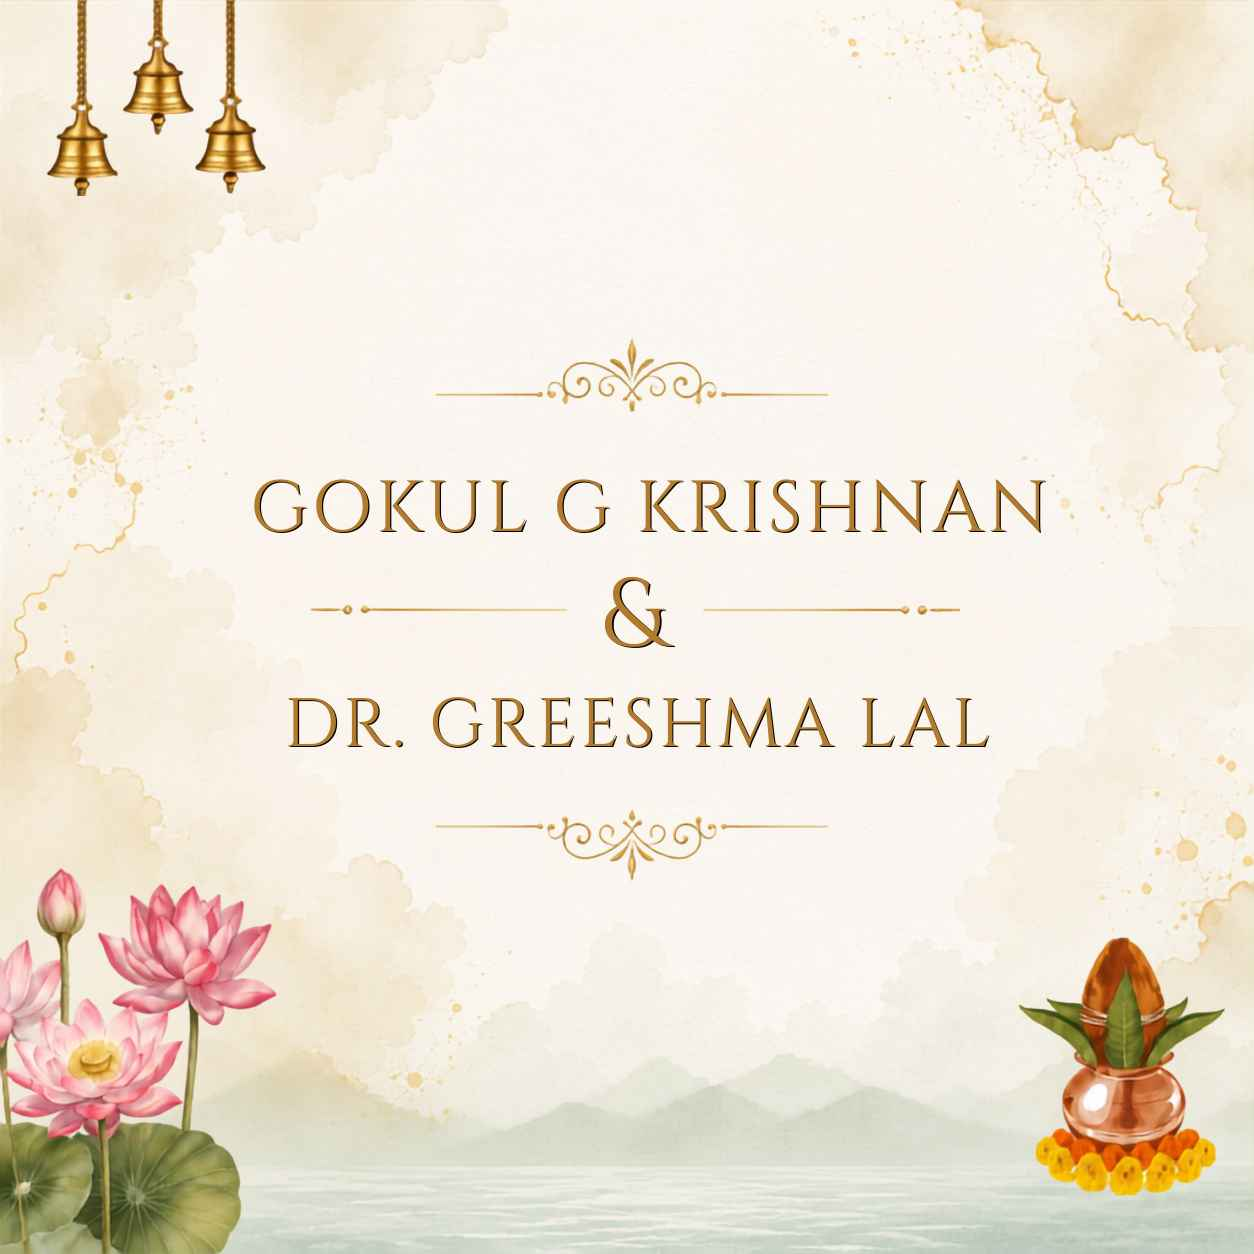
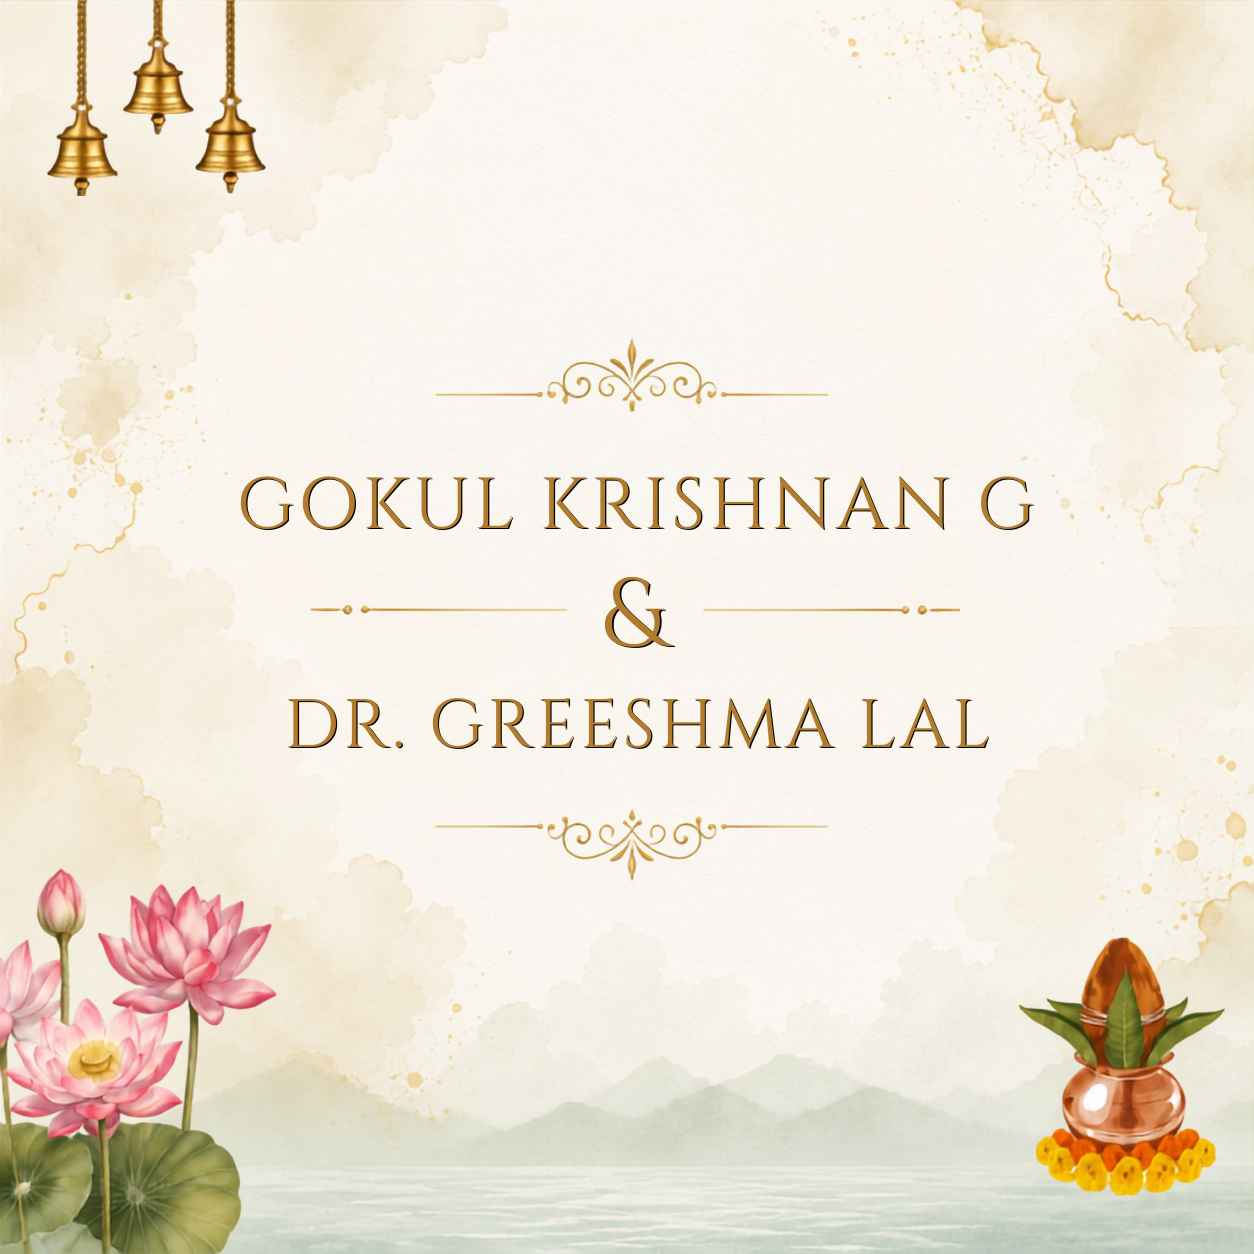
first commit

diff --git a/index.html b/index.html
@@ -5,22 +5,22 @@
 <meta name="viewport" content="width=device-width, initial-scale=1.0, viewport-fit=cover">
 <meta name="theme-color" content="#173F32">
 <meta name="apple-mobile-web-app-status-bar-style" content="black-translucent">
-<title>Gokul G Krishnan &amp; Greeshma Lal | Wedding Invitation</title>
-<meta name="description" content="Join us in celebrating the wedding of Gokul G Krishnan &amp; Greeshma Lal — Sangeeth Night on 24 October, followed by the wedding on 25 October in Guruvayur.">
+<title>Gokul Krishnan G &amp; Greeshma Lal | Wedding Invitation</title>
+<meta name="description" content="Join us in celebrating the wedding of Gokul Krishnan G &amp; Greeshma Lal — Sangeeth Night on 24 October, followed by the wedding on 25 October in Guruvayur.">
 <link rel="canonical" href="https://gokul-greshma.vercel.app/">
 
 <!-- Open Graph -->
 <meta property="og:type" content="website">
 <meta property="og:url" content="https://gokul-greshma.vercel.app/">
-<meta property="og:title" content="Gokul G Krishnan &amp; Greeshma Lal | Wedding Invitation">
-<meta property="og:description" content="Join us in celebrating the wedding of Gokul G Krishnan &amp; Greeshma Lal — Sangeeth Night on 24 October, followed by the wedding on 25 October in Guruvayur.">
+<meta property="og:title" content="Gokul Krishnan G &amp; Greeshma Lal | Wedding Invitation">
+<meta property="og:description" content="Join us in celebrating the wedding of Gokul Krishnan G &amp; Greeshma Lal — Sangeeth Night on 24 October, followed by the wedding on 25 October in Guruvayur.">
 <meta property="og:image" content="https://gokul-greshma.vercel.app/assets/og-image.jpg">
 <meta property="og:image:width" content="1200">
 <meta property="og:image:height" content="630">
 
 <!-- WhatsApp / Twitter card -->
 <meta name="twitter:card" content="summary_large_image">
-<meta name="twitter:title" content="Gokul G Krishnan &amp; Greeshma Lal | Wedding Invitation">
+<meta name="twitter:title" content="Gokul Krishnan G &amp; Greeshma Lal | Wedding Invitation">
 <meta name="twitter:description" content="25 October 2026 · Sree Krishna Temple, Guruvayur">
 <meta name="twitter:image" content="https://gokul-greshma.vercel.app/assets/og-image.jpg">
 
@@ -1055,7 +1055,7 @@ main.is-visible{ opacity:1; transition:opacity 1.2s var(--ease-soft); }
   <div class="opening-cover" id="opening-cover">
     <div class="opening-cover-content">
       <div class="opening-mark">|| Shree Ganeshay Namah ||</div>
-      <div class="opening-names">Gokul G Krishnan<em>&amp;</em>Greeshma Lal</div>
+      <div class="opening-names">Gokul Krishnan G<em>&amp;</em>Greeshma Lal</div>
       <div class="open-invitation-wrap">
         <span class="btn-halo" aria-hidden="true"></span>
         <button class="open-invitation-btn" id="open-invitation-btn">
@@ -1092,7 +1092,7 @@ main.is-visible{ opacity:1; transition:opacity 1.2s var(--ease-soft); }
 
       <div class="hero-eyebrow reveal">Together with their families</div>
       <h1 class="hero-names reveal-scale">
-        Gokul G Krishnan
+        Gokul Krishnan G
         <span class="hero-amp">&amp;</span>
         Greeshma Lal
       </h1>
@@ -1119,7 +1119,7 @@ main.is-visible{ opacity:1; transition:opacity 1.2s var(--ease-soft); }
       <div class="eyebrow reveal">With Joy and Gratitude</div>
       <p class="together reveal">Together with their families</p>
       <div class="couple-names reveal-scale">
-        Gokul G Krishnan
+        Gokul Krishnan G
         <span class="couple-and">&amp;</span>
         Greeshma Lal
       </div>
